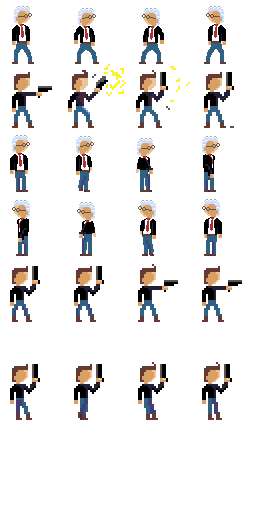
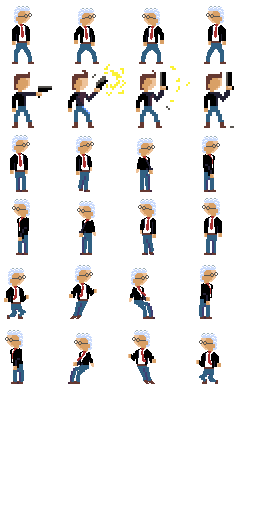
Add jumping anim

diff --git a/src/Hero.ts b/src/Hero.ts
@@ -30,11 +30,14 @@ export class Hero extends Phaser.Sprite {
         this.body.gravity.y = 1000;
 
 
-        this.animations.add('idle-left', [2, 3], 4, true);
         this.animations.add('idle-right', [0, 1], 2, true);
+        this.animations.add('idle-left', [2, 3], 4, true);
         this.animations.add('dancing', [4, 5, 6, 7], 4, true);
-        this.animations.add('left', [12, 13, 14, 15], 6, true);
         this.animations.add('right', [8, 9, 10, 11], 6, true);
+        this.animations.add('left', [12, 13, 14, 15], 6, true);
+        this.animations.add('jump-right', [16, 17, 18, 19], 6, false);
+        this.animations.add('jump-left', [20, 21, 22, 23], 6, false);
+
 
         game.add.existing(this);
 
@@ -75,6 +78,7 @@ export class Hero extends Phaser.Sprite {
             if (this.facing == 'right' && this.facing != 'idle') {
                 this.animations.play('idle-right');
                 this.facing = 'idle';
+
             } else if (this.facing == 'left' && this.facing != 'idle') {
                 this.animations.play('idle-left');
                 this.facing = 'idle';
@@ -86,9 +90,18 @@ export class Hero extends Phaser.Sprite {
         }
 
         if (this.jumpingKey.isDown && this.body.onFloor() && this.game.time.now > this.jumpTimer) {
+
             SoundManager.instance.send(SoundManager.ReceiverJump, [SoundManager.ActionBang]);
             this.body.velocity.y = -300;
             this.jumpTimer = this.game.time.now + 100;
+
+            if (this.facing == 'left') {
+                this.animations.play('jump-left');
+                this.facing = 'left';
+            } else if (this.facing == 'right') {
+                this.animations.play('jump-right');
+                this.facing = 'right';
+            }
         }
     }
 

diff --git a/src/states/Play.ts b/src/states/Play.ts
@@ -5,8 +5,6 @@ import SoundManager from "../SoundManager";
 import {Level} from "../Level";
 import {Door} from "../Door";
 
-//import * as Pd from "../lib/webpd-latest.min.js";
-
 export default class Play extends Phaser.State
 {
     private blackout: boolean = false;
